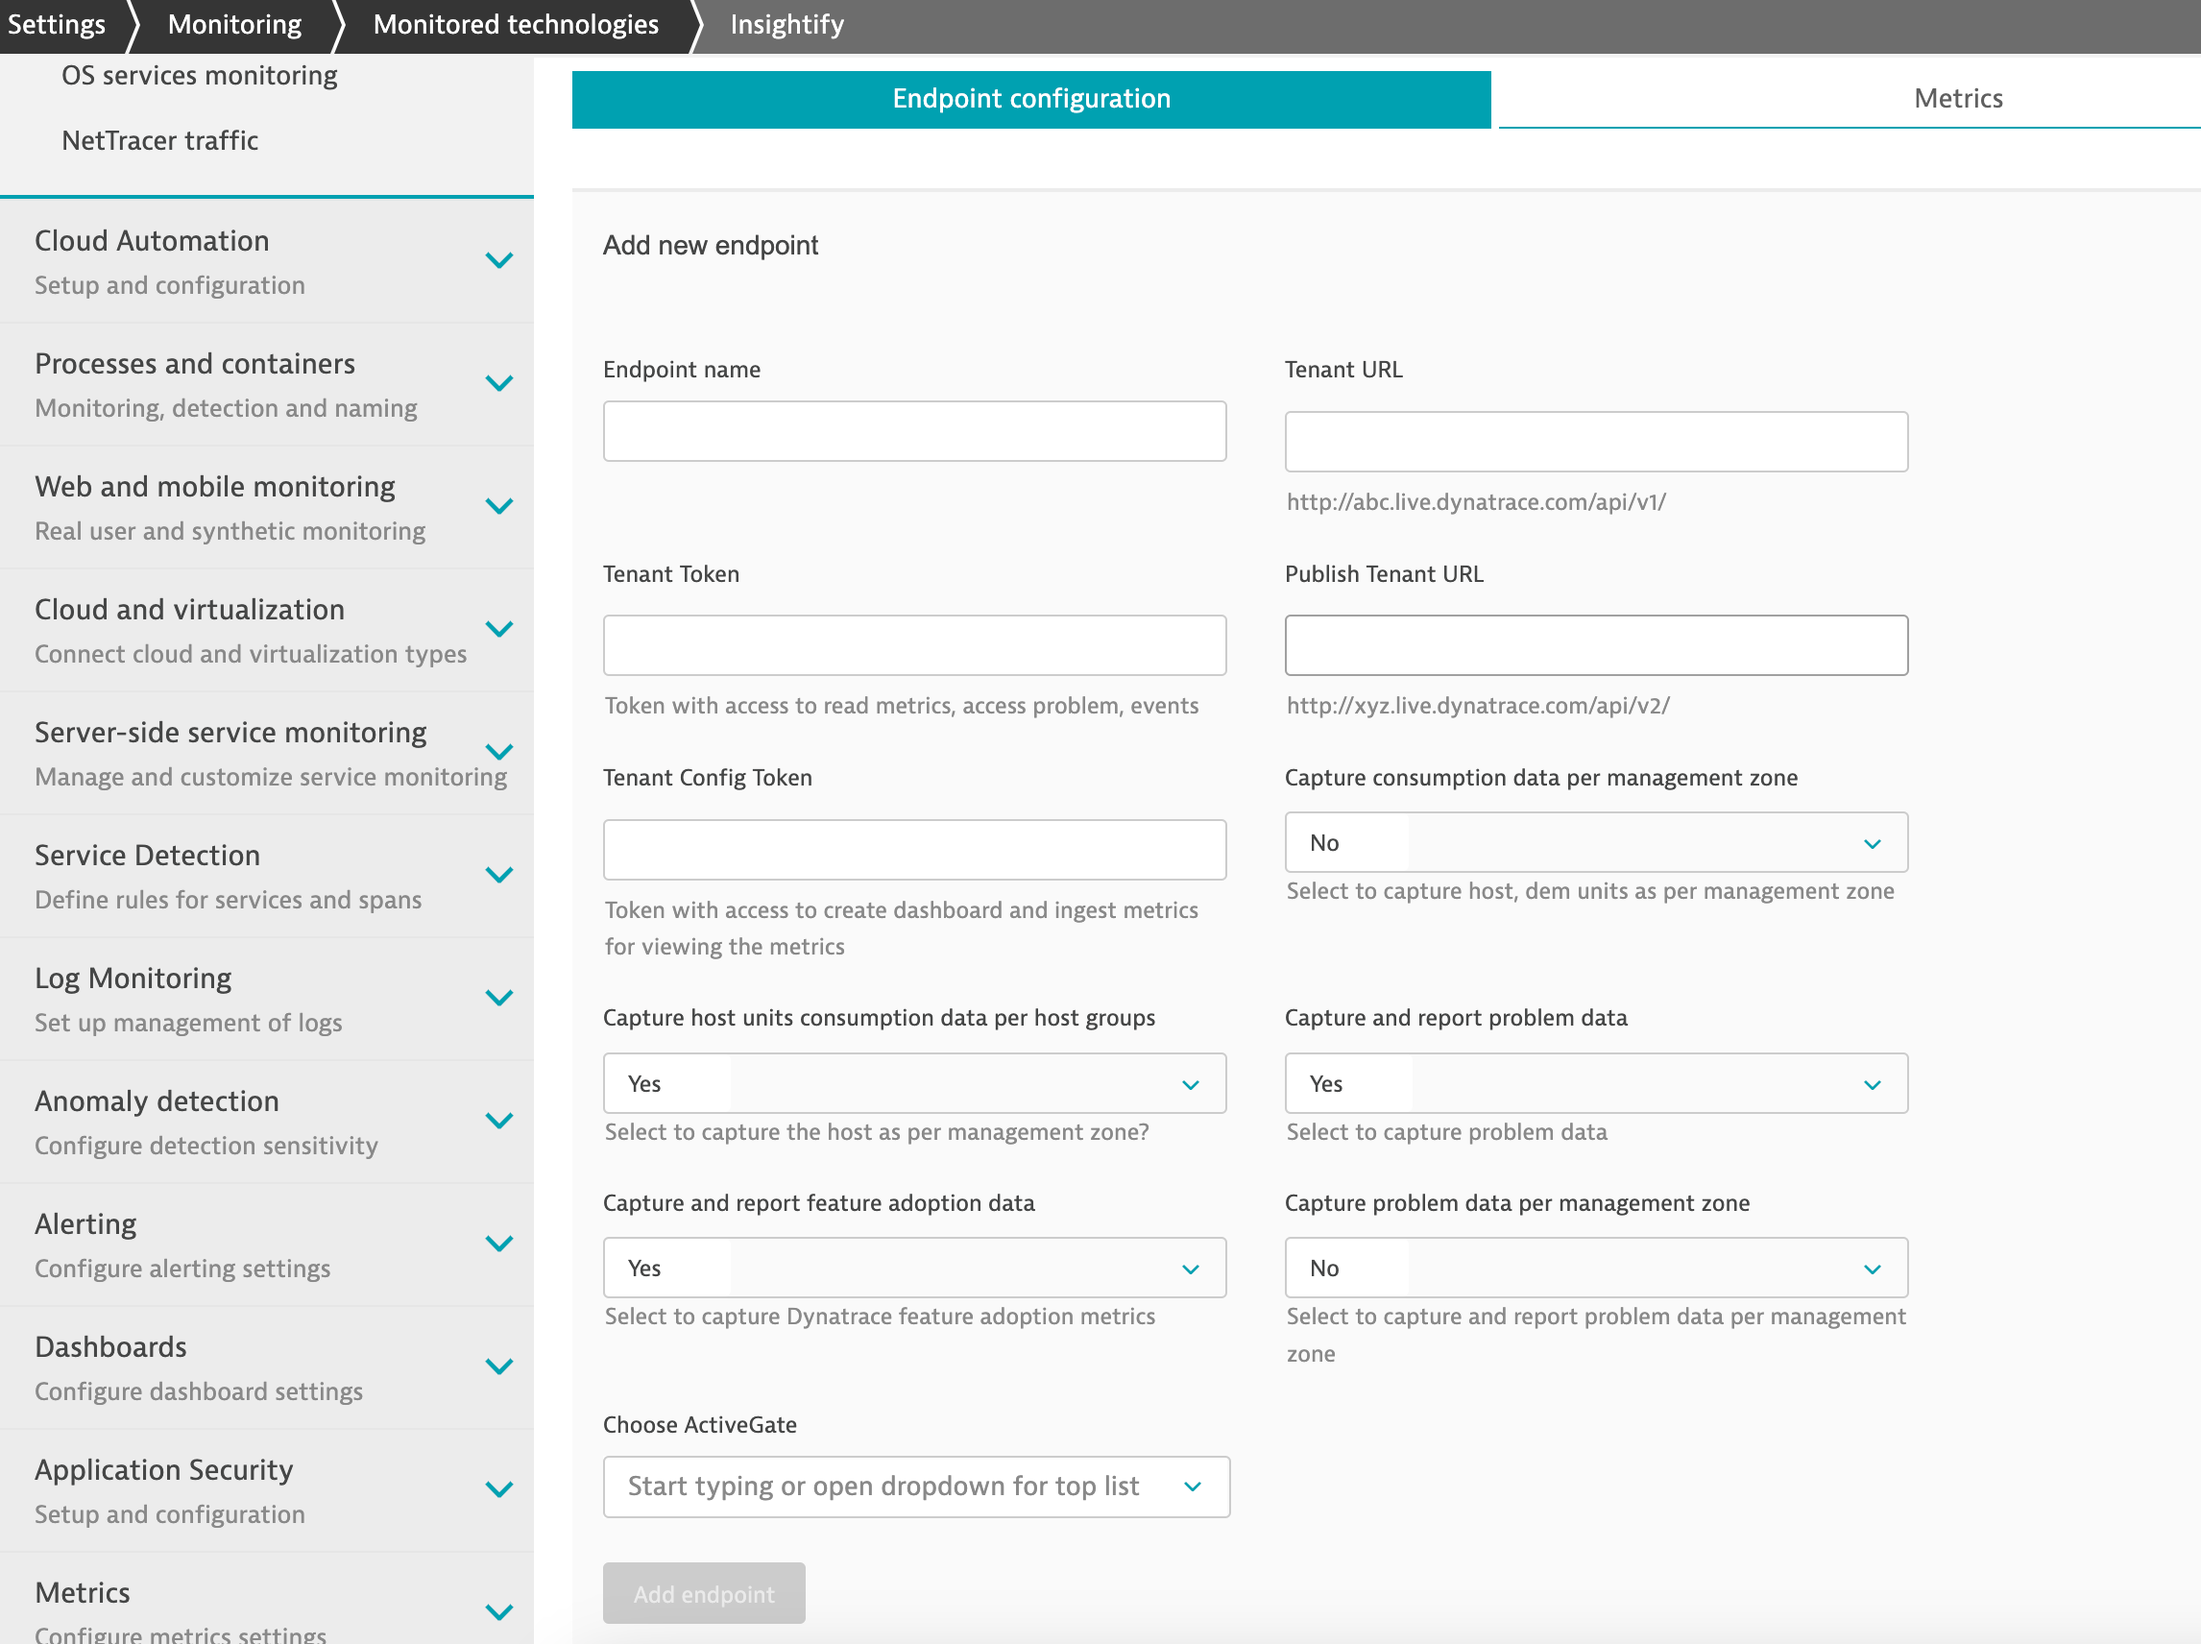
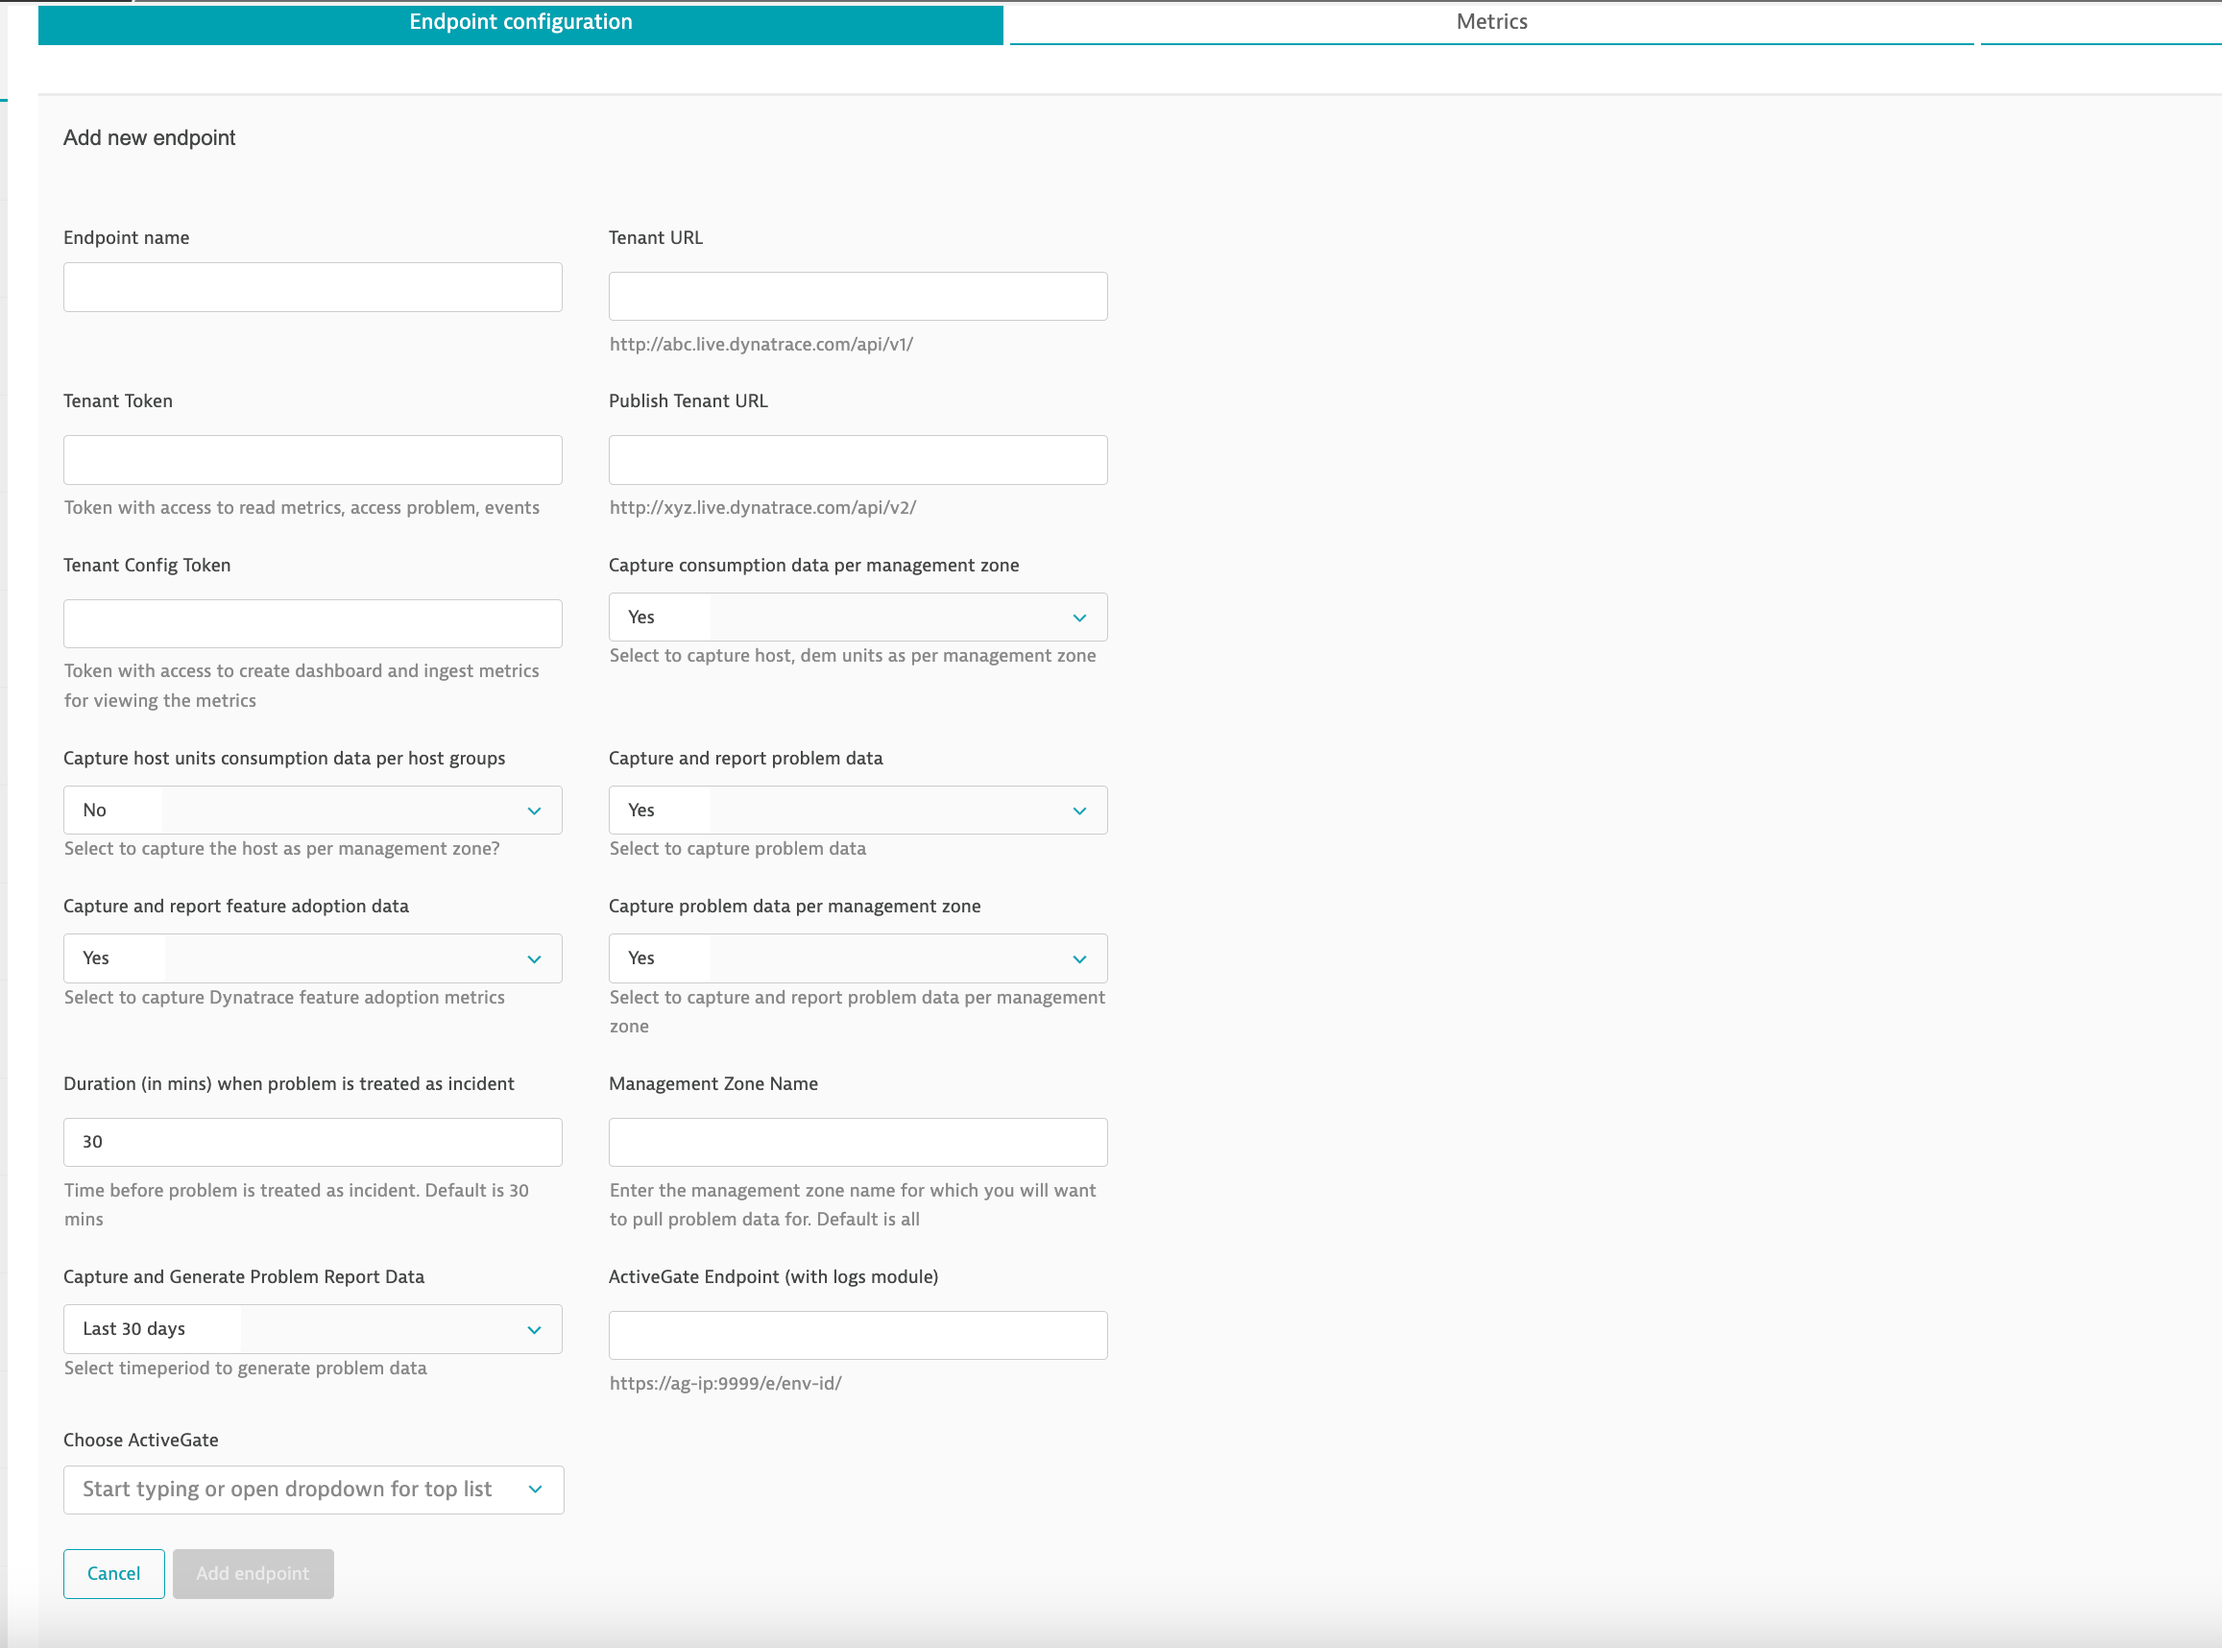
Pushing changes

diff --git a/documentation/docs/get-started.md b/documentation/docs/get-started.md
@@ -1,5 +1,5 @@
 ---
-sidebar_position: 1
+sidebar_position: 2
 ---
 
 # Get Started
@@ -23,30 +23,35 @@ profiles. etc.)
 · **Problem by Severity and Impacted Entities**: Dynatrace received problems classified by different severity along with the different entities (like Environment, Services, etc.)  
 · **License consumption by management zone:** This section will highlight the license utilization by management zone (once enabled).  
 · **License consumption by host group:** This section will highlight the license utilization by host groups (once enabled).  
+· **Problem by management zones:** This section, if enabled, will report problem data like MTTR, RCA availability, etc. sliced per management zone.  
+· **Benefit Value Realisation:** This section will generate a report on the time spent on problems generated by Dynatrace, the cost spent towards it and the potential savings (once enabled).  
 
 ## Extension installation and configuration  
-1. Find the extension from [here](https://github.com/Dynatrace/Dynatrace-health-extension/custom.remote.python.dt_health_report.zip)  
+1. Find the extension from [here](https://github.com/Dynatrace/insightify/blob/main/extension/custom.remote.python.insightify.zip)  
 2. Download to get the extension ZIP file. **Don't rename the file.**  
 3. Unzip the ZIP file to the `plugin_deployment` (found at `/opt/dynatrace/remotepluginmodule/plugin_deployment/`) directory of your ActiveGate host.  
 4. In the Dynatrace menu, go to **Settings > Monitored technologies > Custom extensions and select Upload Extension.**  
-5. Upload the ZIP file.
+5. Upload the ZIP file.  
+6. Upload the zip file to the activeGate where you plan to run the extension from at ``. 
 6. Enter the following endpoint information for pulling data:  
 
    **Endpoint name**: Any label to identify this connection. It is used for identification purposes.
    **Tenant URL**:    Tenant endpoint that you'd like to pull data from. Configure it as `https://abc.live.dynatrace.com/api/v1/`  
                       Replace abc with the tenant UUID for SaaS while for managed, configure the endpoint as `https://managed-server/e/environment-endpoint/api/v1`  
    **Tenant Token**: Token that will be used to pull the data from the configured tenant. Make sure your token has the following permissions:  
-                     - Read problems (API v1)  
-                     - Read problems (API v2)  
-                     - User session query language (API v1)  
-                     - CaptureRequestData (API v1)  
-                     - Read metrics (API v2)  
+                     1. Read problems (API v1)  
+                     2. Read problems (API v2)  
+                     3. User session query language (API v1)  
+                     4. CaptureRequestData (API v1)  
+                     5. Read metrics (API v2)  
 **Publish URL**:     Tenant where you would like to push the pulled metrics. Configure it as `http://xyz.live.dynatrace.com/api/v2/`  
                      Replace abc with the tenant UUID for SaaS while for managed, configure the endpoint as `https://managed-server/e/environment-endpoint/api/v1`  
 **Publish Token**:   Token that will be used to push the metrics. Make sure your token has the following permissions:  
-                     - Write config (Configuration API v1): To create a dashboard with the captured metrics.  
-                     - Read config (Configuration API v1) : Permission to access to verify if the dashboard is already created.  
-                    - Ingest Metrics (Configuration API v1): Permissions to push the host units, DEM units into Dynatrace.  
+                     1. Write config (Configuration API v1): To create a dashboard with the captured metrics.  
+                     2. Read config (Configuration API v1) : Permission to access to verify if the dashboard is already created.  
+                     3. Ingest Metrics (API v2): Permissions to push the host units, DEM units into Dynatrace.  
+                     4. Read Metrics (API v2): Permissions to read the metrics.  
+                     5. Ingest Logs (API v2): An Optional field to allow pushing the problem data retrieved as logs.  
 **Capture consumption data per management zone**:        Set the flag to **Yes** in order to pull host units/DEM consumption metrics and slice it as per management zones.  
 **Capture host units consumption data per host groups**: Set the flag to **Yes** in order to pull host units consumption metrics and slice it as per host groups.  
 **Capture and report problem data**:                     Set the configuration to **Yes** to pull problem data like MTTR, problem details, etc.  

diff --git a/documentation/docs/Guides.md b/documentation/docs/Guides.md
@@ -1,5 +1,5 @@
 ---
-sidebar_position: 2
+sidebar_position: 3
 ---
 
 # Guides
@@ -17,17 +17,18 @@ sidebar_position: 2
 **Endpoint name** The name that you want to refer the tenant with.  
 **Tenant URL** The tenant-URL you would like to fetch data from.  
 **Tenant Token** Token generated with access to read metrics, access problems, events. For details on how to generate token, refer to [help link](https://www.dynatrace.com/support/help/shortlink/token)  
-**Tenant Config Token** Token generated with permissions to ingest metrics, create dashboard.  
+**Tenant Config Token** Token generated with permissions to ingest metrics, read metrics, ingest logs (optional), write and read configuration.  
 **Capture consumption data per management zone** Flag to capture consumption data (Host Units, DEM) and slice it per management zone. Default value of the configuration is **No**.  
 **Capture host unit consumption data per host zone** Flag to capture Host Units and slice it as per host group. Default value of the configuration is **No**.  
 **Capture and report problem data** Flag to pull problem data and report data on problems in the Insightify Dashboard/Device. Default value of the configuration is **Yes**.  
 **Capture and report feature adoption data** Flag to pull problem data and report data on Dynatrace adoption flags in a dashboard named `Insightify Adoption Overview`. Default value of the configuration is **Yes**.  
 **Capture and report problem data per management** Flag to pull problem data and report data on problems per management zone in a dashboard named `Insightify Incident Report`. Default value of the configuration is **No**.  
-
+**Push problem details as log** Configure to push the problem details as logs. If configured, the endpoint will be used to push the problem details as logs using `/ingest/logs` api. By default, feature is disabled.  
+**Value Benefit Realisation** Dashboard highlighting the cost savings using a default cost model. The dashboard is created once **Capture and report problem data per management** is enabled.  
 
 3. Once configured, successful extension start. It should display the Ok status.
 
-> The extension might take upto 2 minutes to initialize for the first run.
+> The extension will take upto couple of minutes to initialize for the first run.
 
 ### Look around
 
